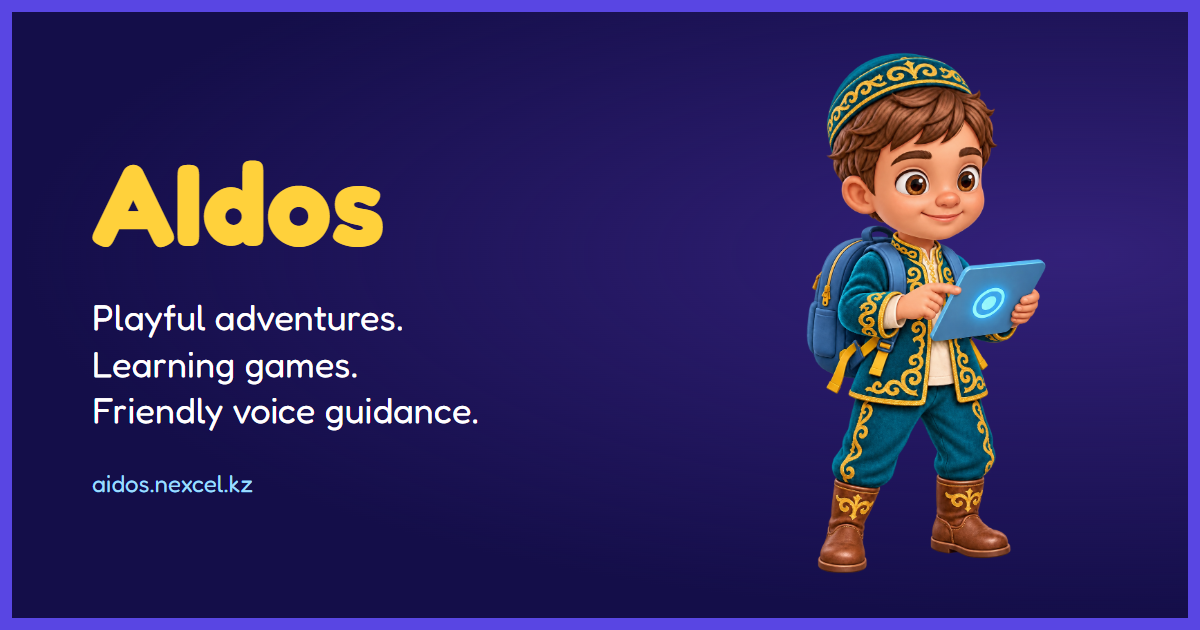
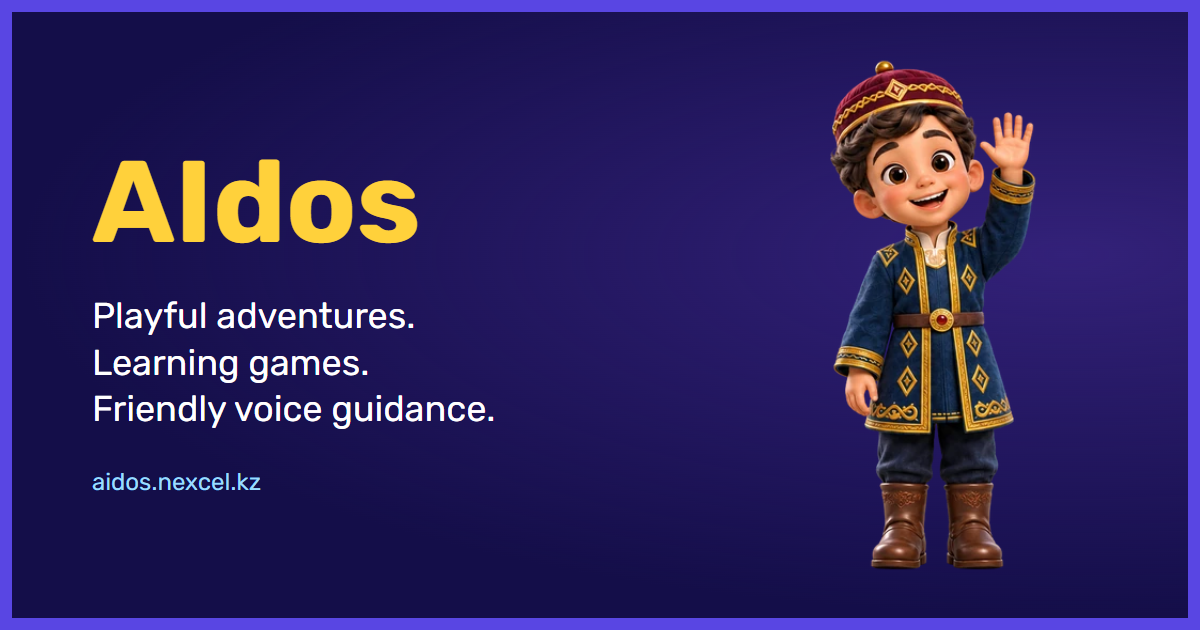
Animate AIdos from the Kazakh character reference

diff --git a/src/components/Mascot.tsx b/src/components/Mascot.tsx
@@ -1,15 +1,10 @@
-// AIdos, the boy with the backpack, is the site's guide. Every appearance goes
-// through <Mascot>, so the four poses stay consistent:
-//   wave   greetings (Welcome, start of Parent Setup, Hub greeting)
-//   jump   wins (Complete, a right answer, a won game)
-//   tablet videos and waiting (Video, breaks, "Start here" in the Hub)
-//   point  tasks and help (Mission, hints, "Try again", Ask AIdos)
+import { useSyncExternalStore, type CSSProperties } from 'react';
+import { preload } from 'react-dom';
 import { APP_NAME } from '../brand';
-import type { CSSProperties } from 'react';
+import { getSpeechFrame, subscribeSpeechFrame } from '../audio/speechMotion';
 import './Mascot.css';
-export type MascotPose = "wave" | "jump" | "tablet" | "point";
 
-// What a screen wants to show; poseFor picks the matching picture.
+export type MascotPose = "wave" | "jump" | "tablet" | "point";
 export type MascotMood = "idle" | "happy" | "thinking" | "giggle" | "excited" | "surprised" | "detective" | "listening";
 export type MascotAction = "clap" | "jump" | "wave" | "sneak" | "drink" | "none";
 
@@ -20,13 +15,34 @@ export function poseFor(mood: MascotMood, action: MascotAction = "none"): Mascot
   return "point";
 }
 
-/** `size` is the height in pixels; without it the picture fills its box. */
-export function Mascot({ pose, size, eager = false, className = "" }: {
+// The atlas has three columns per pose. Each frame shares the same boot baseline.
+const atlas = '/mascot/frames/guide.webp';
+const width = 320;
+const height = 496;
+
+export function Mascot({ pose, size, eager = false, speaking, className = "" }: {
   pose: MascotPose; size?: number; eager?: boolean; speaking?: boolean; className?: string;
 }) {
-  const style = size ? { height: Math.min(size,280), width: Math.round(Math.min(size,280)*.75) } as CSSProperties : undefined;
+  const speech = useSyncExternalStore(subscribeSpeechFrame, getSpeechFrame, getSpeechFrame);
+  const talking = speaking !== false && speech.active;
+  const greeting = pose === 'wave' || pose === 'jump';
+  const motion = talking ? 'talk' : greeting ? 'wave' : 'idle';
+  const row = talking ? 2 : greeting ? 1 : 0;
+  const mouth = Math.min(2, speech.mouth);
+  const boxHeight = size ? Math.min(size, 280) : undefined;
+  const style: CSSProperties | undefined = boxHeight ? { height: boxHeight, width: Math.round(boxHeight * .75) } : undefined;
+  if (eager) preload(atlas, { as: 'image' });
+
   return <span className={`aidos-mascot ${className}`.trim()} role="img" aria-label={APP_NAME}
-    data-pose={pose} data-reference="approved" data-sized={size ? true : undefined} style={style}>
-    <img className="aid-reference" src="/mascot/aidos-reference.png" alt="" loading={eager ? 'eager' : 'lazy'} decoding="async" draggable={false} />
+    data-pose={pose} data-motion={motion} data-sized={size ? true : undefined} style={style}>
+    <svg className="aid-sprite" viewBox={`0 0 ${width} ${height}`} preserveAspectRatio="xMidYMax meet"
+      aria-hidden="true" focusable="false">
+      <svg width={width} height={height} overflow="hidden">
+        <g transform={`translate(0 ${-row * height})`}>
+          <image className="aid-frames" href={atlas} width={width * 3} height={height * 3}
+            data-mouth={talking ? mouth : undefined} />
+        </g>
+      </svg>
+    </svg>
   </span>;
 }

diff --git a/public/404.html b/public/404.html
@@ -1,3 +1,3 @@
 <!doctype html>
 <html lang="kk"><head><meta charset="utf-8"><meta name="viewport" content="width=device-width,initial-scale=1"><meta name="robots" content="noindex"><title>Бет табылмады · AIdos</title><meta name="description" content="AIdos-тың басты бетіне оралыңыз."><link rel="icon" href="/aidos-icon.svg"><link rel="stylesheet" href="/fonts/families.css"><style>body{margin:0;background:#0f0a3c;color:#fff;min-height:100dvh;display:grid;place-items:center}main{text-align:center;padding:24px;max-width:480px}img{object-fit:contain}a{font-family:var(--font-heading);display:inline-block;padding:16px 32px;border-radius:16px;background:#2ce69b;color:#082f22;font-weight:800;text-decoration:none}a:focus-visible{outline:3px solid #ffc83d;outline-offset:4px}
-</style></head><body><main><img src="/mascot/aidos-wave.webp" width="140" height="240" alt="AIdos"><h1>Қайта оралайық!</h1><p>Бұл бет табылмады. Келесі ойын басты бетте.</p><a href="/">Басты бет</a></main><script>try{if(localStorage.getItem('mypal.lang')==='en'){document.documentElement.lang='en';document.title='Page not found · AIdos';document.querySelector('meta[name=description]').content="Let's find your way back to AIdos.";document.querySelector('h1').textContent="Let's find our way back!";document.querySelector('p').textContent="This page isn't here. Your next adventure is at home.";document.querySelector('a').textContent='Home'}}catch{}</script></body></html>
+</style></head><body><main><img src="/mascot/frames/welcome.webp" width="140" height="240" alt="AIdos"><h1>Қайта оралайық!</h1><p>Бұл бет табылмады. Келесі ойын басты бетте.</p><a href="/">Басты бет</a></main><script>try{if(localStorage.getItem('mypal.lang')==='en'){document.documentElement.lang='en';document.title='Page not found · AIdos';document.querySelector('meta[name=description]').content="Let's find your way back to AIdos.";document.querySelector('h1').textContent="Let's find our way back!";document.querySelector('p').textContent="This page isn't here. Your next adventure is at home.";document.querySelector('a').textContent='Home'}}catch{}</script></body></html>

diff --git a/src/audio/engine.ts b/src/audio/engine.ts
@@ -35,6 +35,7 @@ let duckEnabled = true;
 let speechDepth = 0;
 let playbackGeneration = 0;
 let stopCurrentClip: (() => void) | undefined;
+let finishDeviceSpeech: (() => void) | undefined;
 
 function audioGraph(): AudioGraph {
   if (graph) return graph;
@@ -283,6 +284,7 @@ export function playSfx(id: SoundEffect): void {
 
 export function stopSpeech(): void {
   playbackGeneration += 1;
+  finishDeviceSpeech?.();
   if (typeof window !== "undefined") window.speechSynthesis?.cancel();
   queue = Promise.resolve(); // A cancelled download must not block the next prompt.
   stopCurrentClip?.();
@@ -411,9 +413,25 @@ function deviceSpeech(text: string): Promise<void> {
     const words = new SpeechSynthesisUtterance(text);
     words.voice = voice;
     words.lang = lang === "kk" ? "kk-KZ" : "en-US";
-    const timeout = window.setTimeout(() => { synth.cancel(); resolve(); }, 20000);
-    words.onend = words.onerror = () => { clearTimeout(timeout); resolve(); };
-    synth.speak(words);
+    let started = false;
+    let finished = false;
+    function finish() {
+      if (finished) return;
+      finished = true;
+      clearTimeout(timeout);
+      if (started) changeVoicePlayback('browser', -1);
+      if (finishDeviceSpeech === finish) finishDeviceSpeech = undefined;
+      resolve();
+    }
+    const timeout = window.setTimeout(() => { finish(); synth.cancel(); }, 20000);
+    finishDeviceSpeech = finish;
+    words.onstart = () => {
+      if (finished || started) return;
+      started = true;
+      changeVoicePlayback('browser', 1);
+    };
+    words.onend = words.onerror = finish;
+    try { synth.speak(words); } catch { finish(); }
   });
 }
 subscribe(() => {

diff --git a/src/components/Mascot.css b/src/components/Mascot.css
@@ -1,3 +1,26 @@
 .aidos-mascot { position: relative; isolation: isolate; vertical-align: bottom; flex-shrink: 0; }
 .hub-greeting > .aidos-mascot, .ask-host > .aidos-mascot { margin-inline: 0; }
-.aid-reference { position: absolute; inset: 0; width: 100%; height: 100%; object-fit: contain; object-position: center bottom; pointer-events: none; }
+.aid-sprite { position: absolute; inset: 0; width: 100%; height: 100%; pointer-events: none; }
+.aid-frames { transform-box: fill-box; }
+
+/* A third of the strip is one frame. Keep the paper-doll edges crisp between poses. */
+@media (prefers-reduced-motion: no-preference) {
+  [data-motion="idle"] .aid-frames { animation: aid-blink 4s steps(1, end) infinite; }
+  [data-motion="wave"] .aid-frames { animation: aid-wave 2.4s steps(1, end) infinite; }
+  [data-mouth="1"] { transform: translateX(calc(-100% / 3)); }
+  [data-mouth="2"] { transform: translateX(calc(-200% / 3)); }
+  [data-pose="jump"][data-motion="wave"] .aid-sprite { animation: aid-cheer .48s ease-in-out 2; }
+}
+@keyframes aid-blink {
+  0%, 97%, 100% { transform: none; }
+  91%, 95% { transform: translateX(calc(-100% / 3)); }
+  93% { transform: translateX(calc(-200% / 3)); }
+}
+@keyframes aid-wave {
+  0%, 24%, 48%, 100% { transform: none; }
+  6%, 18%, 30%, 42% { transform: translateX(calc(-100% / 3)); }
+  12%, 36% { transform: translateX(calc(-200% / 3)); }
+}
+@keyframes aid-cheer {
+  50% { transform: translateY(-4%); }
+}

diff --git a/src/screens/Welcome.tsx b/src/screens/Welcome.tsx
@@ -30,7 +30,7 @@ export function Welcome({ repeat, onContinue, onToggleSound }: {
   }, [stage, repeat, onContinue]);
 
   if (stage < 3 || repeat) return <main id="screen-splash" className="prototype-screen fixed inset-0 z-50 bg-white flex flex-col items-center justify-center p-6 text-center transition-opacity duration-500" aria-label={t("welcome.loading")}>
-    <div className="splash-mascot mb-6 drop-shadow-lg"><Mascot pose="wave" size={200} eager /></div>
+    <div className="splash-mascot mb-6 drop-shadow-lg"><Mascot pose="tablet" size={200} eager /></div>
     <h1 className="splash-title font-display text-3xl sm:text-4xl font-bold text-[#6C47FF] tracking-tight mb-2">{t("welcome.welcomeTo")}</h1>
     <p className="text-slate-400 font-extrabold text-sm tracking-widest uppercase mb-6" role="status">{status[Math.min(stage, 2)]}</p>
     <div className="w-64 h-4 bg-slate-200 rounded-full overflow-hidden p-0.5" role="progressbar" aria-label={t("welcome.loadingProgress")} aria-valuenow={progress[Math.min(stage, 2)]}>

diff --git a/README.md b/README.md
@@ -105,7 +105,7 @@ Games and quizzes share nine quiet music themes and matching animated decoration
 
 The English pack contains 238 line IDs recorded with Cloudflare Aura-2 Luna. The Kazakh pack contains 243 IDs recorded with Piper iseke. Identical lines share a recording. Each pack has its own manifest and text index in `public/audio/en/` or `public/audio/kk/`. Known lines play locally. New English replies can use the pinned cloud voice. For missing Kazakh recordings, the app uses an available Kazakh device voice and keeps the caption visible when speech is unavailable. Parent notes and nicknames stay local.
 
-The mascot is the exact user-approved PNG in `public/mascot/aidos-reference.png`, without a procedural reinterpretation of the face or clothing. The earlier Three.js model is no longer loaded by the app.
+AIdos blinks, waves and speaks using nine transparent frames in `public/mascot/frames/guide.webp`. Recorded speech drives the mouth from the voice level. Device speech uses a syllable rhythm during playback. Reduced-motion mode shows still poses.
 
 To rebuild the Kazakh pack, install Piper and FFmpeg support and download the voice weights with the matching JSON configuration next to them. Set `PYTHON` to your environment's Python if needed. Keep the weights outside Git.
 
